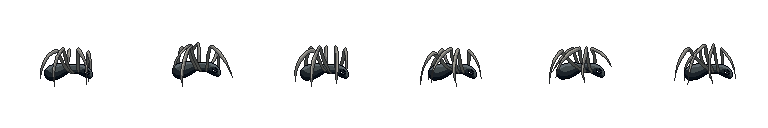
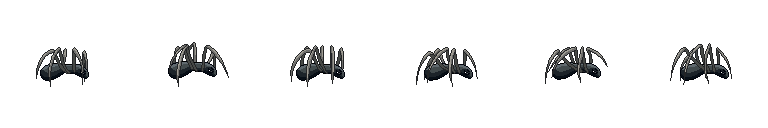
add spider

diff --git a/src/entities/Spider.js b/src/entities/Spider.js
@@ -1,0 +1,221 @@
+// @ts-check
+class Spider extends Phaser.GameObjects.Sprite {
+
+    direction = Phaser.Math.Between(0, 1) == 0 ? -1 : 1;
+
+    loaded = false;
+
+    spiderState = 'walk';
+
+    constructor(scene, x, y) {
+        super(scene, x, y, scene.make.renderTexture({ width: 128, height: 128 }).texture);
+
+        this.scene.add.existing(this);
+        this.scene.physics.add.existing(this);
+
+        this.scene.load.image('spider', 'assets/spider/spider.png');
+        this.scene.load.spritesheet('spiderwalk-spritesheet', 'assets/spider/walk.png', { frameWidth: 128, frameHeight: 128 });
+        this.scene.load.spritesheet('spiderattack-spritesheet', 'assets/spider/attack.png', { frameWidth: 128, frameHeight: 128 });
+        this.scene.load.spritesheet('spiderdeath-spritesheet', 'assets/spider/death.png', { frameWidth: 128, frameHeight: 128 });
+        this.scene.load.spritesheet('dizzy-spritesheet', 'assets/dizzy.png', { frameWidth: 70, frameHeight: 25 });
+
+        this.scene.load.on(Phaser.Loader.Events.COMPLETE, () => {
+            this.scene.anims.create({
+                key: 'spider-walk',
+                frames: this.scene.anims.generateFrameNumbers('spiderwalk-spritesheet', {}),
+                frameRate: 5,
+                repeat: -1
+            });
+            this.scene.anims.create({
+                key: 'spider-attack',
+                frames: this.scene.anims.generateFrameNumbers('spiderattack-spritesheet', {}),
+                frameRate: 15,
+                repeat: 0
+            });
+            this.scene.anims.create({
+                key: 'spider-death',
+                frames: this.scene.anims.generateFrameNumbers('spiderdeath-spritesheet', {}),
+                frameRate: 8,
+                repeat: 0
+            });
+            this.scene.anims.create({
+                key: 'dizzy',
+                frames: this.scene.anims.generateFrameNumbers('dizzy-spritesheet', {}),
+                frameRate: 8,
+                repeat: -1,
+            });
+
+            this.x = this.x - (this.body.left - this.x);
+            this.y = this.y + (this.y - this.body.bottom);
+
+            this.loaded = true;
+            this.anims.play('spider-walk');
+        }, this);
+
+        this.scene.load.start();
+
+        this.setOrigin(0, 1);
+        this.body.setCollideWorldBounds(true);
+        this.body.setSize(49, 38);
+        this.body.setOffset(40, 45);
+
+        this.body.onWorldBounds = true;
+        this.body.world.on(Phaser.Physics.Arcade.Events.WORLD_BOUNDS, this.worldColided, this);
+
+        this.scene.physics.add.overlap(this.scene.hero, this, this.heroOverlap, null, this);
+    }
+
+    preUpdate(time, delta) {
+        super.preUpdate(time, delta);
+
+        if (!this.loaded) {
+            return;
+        }
+
+        if (!(this.body instanceof Phaser.Physics.Arcade.Body)) {
+            return;
+        }
+
+        if (this.spiderState == 'dead') {
+            return;
+        }
+        if (this.spiderState == 'dizzy') {
+            if (Date.now() - this.dizzySatrt > 3000) {
+                this.spiderState = 'walk';
+                this.anims.play('spider-walk');
+                this.dizzySprite.destroy();
+            }
+            return;
+        }
+        if (this.spiderState == 'attack') {
+            return;
+        }
+
+        let frontX;
+        if (this.direction < 0) {
+            frontX = this.body.left - 39;
+        } else {
+            frontX = this.body.right;
+        }
+
+        let overlapsWithHero = Phaser.Geom.Rectangle.Overlaps(
+            new Phaser.Geom.Rectangle(this.scene.hero.body.left, this.scene.hero.body.top, this.scene.hero.body.width, this.scene.hero.body.height),
+            new Phaser.Geom.Rectangle(frontX, this.body.top + 17, 39, 21)
+        );
+
+        if (overlapsWithHero && this.scene.hero.heroState != 'dead') {
+            this.attackHero();
+        }
+
+        if (this.direction < 0) {
+            this.setFlipX(true);
+        } else {
+            this.setFlipX(false);
+        }
+        this.body.setMaxVelocity(80, 400);
+        this.body.setAccelerationX(100 * this.direction);
+    }
+
+    groundColided(spider, tile) {
+        if (this.spiderState == 'dead') {
+            return;
+        }
+        if (this.spiderState == 'dizzy') {
+            return;
+        }
+
+        if (Math.trunc(spider.body.bottom) - tile.pixelY > 0) {
+            this.direction = this.direction * -1;
+        }
+
+        var tileInFront;
+        if (this.direction < 0) {
+            tileInFront = this.scene.groundLayer.getTileAtWorldXY(this.body.left - 1, this.body.bottom);
+        } else {
+            tileInFront = this.scene.groundLayer.getTileAtWorldXY(this.body.right + 1, this.body.bottom);
+        }
+
+        if (!tileInFront) {
+            this.body.velocity.x = 0;
+            this.direction = this.direction * -1;
+        }
+    }
+
+    worldColided(spider) {
+        if (this.spiderState == 'dead') {
+            return;
+        }
+        if (spider.gameObject.name != this.name) {
+            return;
+        }
+        this.direction = this.direction * -1;
+    }
+
+    heroOverlap(hero, spider) {
+        if (this.spiderState == 'dead') {
+            return;
+        }
+        if (this.spiderState == 'dizzy') {
+            return;
+        }
+
+        if (this.spiderState != 'attack' && hero.heroState != 'dead') {
+            if (this.body.left + this.body.halfWidth < hero.body.left + hero.body.halfWidth) {
+                this.setFlipX(false);
+                this.direction = 1;
+            } else {
+                this.setFlipX(true);
+                this.direction = -1;
+            }
+            this.attackHero();
+        }
+    }
+
+    attackHero() {
+        this.spiderState = 'attack';
+        this.body.velocity.x = 0;
+        this.body.setAccelerationX(0);
+        this.anims.play('spider-attack');
+        this.scene.hero.kill();
+        this.once(Phaser.Animations.Events.SPRITE_ANIMATION_COMPLETE, () => {
+            this.spiderState = 'walk';
+            this.anims.play('spider-walk');
+        }, this);
+    }
+
+    kill() {
+        if (this.spiderState == 'dead') {
+            return;
+        }
+        this.spiderState = 'dead';
+        this.anims.play('spider-death');
+        this.body.velocity.x = 0;
+        this.body.setAccelerationX(0);
+        if (this.dizzySprite) {
+            this.dizzySprite.destroy();
+        }
+    }
+
+    makeDizzy() {
+        if (this.spiderState == 'dead') {
+            return;
+        }
+        this.dizzySatrt = Date.now();
+        this.body.velocity.x = 0;
+        this.body.setAccelerationX(0);
+        if (this.spiderState == 'dizzy') {
+            return;
+        }
+        this.spiderState = 'dizzy';
+        this.anims.stop();
+        this.setTexture('spider');
+        this.dizzySprite = this.scene.physics.add.sprite(this.body.left - 15, this.body.top, null);
+        this.dizzySprite.setOrigin(0, 1);
+        this.dizzySprite.anims.play("dizzy");
+        this.dizzySprite.body.immovable = true;
+        this.dizzySprite.body.setAllowGravity(false);
+    }
+
+}
+
+export default Spider;

diff --git a/src/scenes/Level1.js b/src/scenes/Level1.js
@@ -4,6 +4,7 @@
 import Phaser from 'phaser';
 import Ent from '../entities/Ent.js';
 import Rogue from '../entities/Rogue.js';
+import Spider from '../entities/Spider.js';
 
 class Level1 extends Phaser.Scene {
 
@@ -115,6 +116,7 @@ class Level1 extends Phaser.Scene {
 
     let spikeGroup = this.physics.add.group({ immovable: true, allowGravity: false });
     this.entGroup = this.physics.add.group();
+    this.spiderGroup = this.physics.add.group();
 
     let offX = 5;
     let offY = 13;
@@ -163,6 +165,12 @@ class Level1 extends Phaser.Scene {
         this.physics.add.collider(ent, this.groundLayer, ent.groundColided, null, ent);
         ent.setName('ent-' + object.gid);
         this.entGroup.add(ent, false);
+      }
+      if (object.type == 'spider') {
+        let spider = new Spider(this, object.x, object.y);
+        this.physics.add.collider(spider, this.groundLayer, spider.groundColided, null, spider);
+        spider.setName('ent-' + object.gid);
+        this.spiderGroup.add(spider, false);
       }
     }
 
